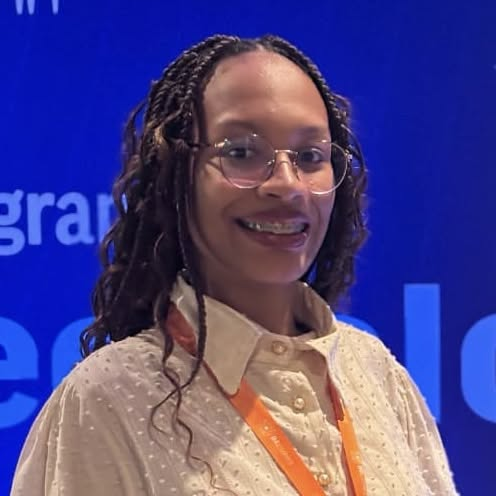
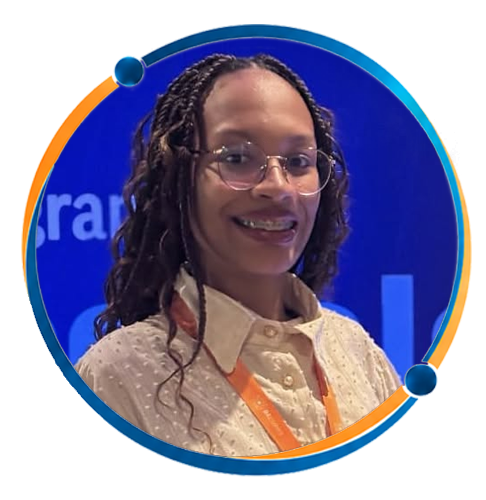
Usa PNGs dos apresentadores com moldura original sem recortes

diff --git a/programacao.html b/programacao.html
@@ -10,7 +10,7 @@
     <link rel="preconnect" href="https://fonts.googleapis.com" />
     <link rel="preconnect" href="https://fonts.gstatic.com" crossorigin />
     <link href="https://fonts.googleapis.com/css2?family=DM+Sans:wght@400;500;600;700&family=Syne:wght@600;700;800&display=swap" rel="stylesheet" />
-    <link rel="stylesheet" href="styles.css?v=20261028-15" />
+    <link rel="stylesheet" href="styles.css?v=20261028-16" />
   </head>
   <body class="program-page">
     <header class="site-header">
@@ -141,19 +141,19 @@
                 <div class="program-presentations">
                   <section class="program-presentation">
                     <h4>Avaliação comparativa da dose glandular média em mamografia digital 2D e tomossíntese mamária</h4>
-                    <div class="program-person"><span class="program-presenter-photo"><img class="presenter-caroline" src="assets/apresentadores/caroline-chagas.jpeg?v=20261028-original" alt="Caroline Chagas" width="46" height="46" loading="lazy" /></span><span><strong>Caroline Chagas</strong><small>Apresentador</small></span></div>
+                    <div class="program-person"><span class="program-presenter-photo"><img class="presenter-caroline" src="assets/apresentadores/caroline-chagas.png?v=20261028-moldura" alt="Caroline Chagas" width="50" height="50" loading="lazy" /></span><span><strong>Caroline Chagas</strong><small>Apresentador</small></span></div>
                   </section>
                   <section class="program-presentation">
                     <h4>Comparação da dose glandular média indicada por mamógrafo digital com a estimada pelo método de Dance</h4>
-                    <div class="program-person"><span class="program-presenter-photo"><img class="presenter-lizandra" src="assets/apresentadores/lizandra-oliveira.jpeg?v=20261028-original" alt="Lizandra Oliveira" width="46" height="46" loading="lazy" /></span><span><strong>Lizandra Oliveira</strong><small>Apresentador</small></span></div>
+                    <div class="program-person"><span class="program-presenter-photo"><img class="presenter-lizandra" src="assets/apresentadores/lizandra-oliveira.png?v=20261028-moldura" alt="Lizandra Oliveira" width="50" height="50" loading="lazy" /></span><span><strong>Lizandra Oliveira</strong><small>Apresentador</small></span></div>
                   </section>
                   <section class="program-presentation">
                     <h4>Impacto da geometria dos simuladores de PMMA na avaliação da razão contraste-ruído em mamografia digital</h4>
-                    <div class="program-person"><span class="program-presenter-photo"><img class="presenter-victoria" src="assets/apresentadores/victoria-do-carmo.jpeg?v=20261028-original" alt="Victória do Carmo" width="46" height="46" loading="lazy" /></span><span><strong>Victória do Carmo</strong><small>Apresentador</small></span></div>
+                    <div class="program-person"><span class="program-presenter-photo"><img class="presenter-victoria" src="assets/apresentadores/victoria-do-carmo.png?v=20261028-moldura" alt="Victória do Carmo" width="50" height="50" loading="lazy" /></span><span><strong>Victória do Carmo</strong><small>Apresentador</small></span></div>
                   </section>
                   <section class="program-presentation">
                     <h4>Aprendizado profundo para leitura automática do teste de constância em mamografia: avaliação prospectiva em rotina com fantomas ACR e CBR</h4>
-                    <div class="program-person"><span class="program-presenter-photo"><img src="assets/apresentadores/perfil-azul.svg" alt="Silhueta de perfil — foto de Diego Galeano não disponível" width="46" height="46" loading="lazy" /></span><span><strong>Diego Galeano</strong><small>Apresentador</small></span></div>
+                    <div class="program-person"><span class="program-presenter-photo"><img src="assets/apresentadores/perfil-azul.svg" alt="Silhueta de perfil — foto de Diego Galeano não disponível" width="50" height="50" loading="lazy" /></span><span><strong>Diego Galeano</strong><small>Apresentador</small></span></div>
                   </section>
                 </div>
               </article>
@@ -244,15 +244,15 @@
                 <div class="program-presentations">
                   <section class="program-presentation">
                     <h4>Avaliação da exposição à radiação de acompanhantes em tomografia computadorizada pediátrica: influência do posicionamento e do uso de avental plumbífero</h4>
-                    <div class="program-person"><span class="program-presenter-photo"><img class="presenter-juliana" src="assets/apresentadores/juliana-barros.jpeg?v=20261028-original" alt="Juliana Barros" width="46" height="46" loading="lazy" /></span><span><strong>Juliana Barros</strong><small>Apresentador</small></span></div>
+                    <div class="program-person"><span class="program-presenter-photo"><img class="presenter-juliana" src="assets/apresentadores/juliana-barros.png?v=20261028-moldura" alt="Juliana Barros" width="50" height="50" loading="lazy" /></span><span><strong>Juliana Barros</strong><small>Apresentador</small></span></div>
                   </section>
                   <section class="program-presentation">
                     <h4>Avaliação da concordância entre o CTDIvol indicado e medido em tomografia computadorizada</h4>
-                    <div class="program-person"><span class="program-presenter-photo"><img class="presenter-leticia" src="assets/apresentadores/leticia-teles.png?v=20261028-original" alt="Letícia Teles" width="46" height="46" loading="lazy" /></span><span><strong>Letícia Teles</strong><small>Apresentador</small></span></div>
+                    <div class="program-person"><span class="program-presenter-photo"><img class="presenter-leticia" src="assets/apresentadores/leticia-teles.png?v=20261028-moldura" alt="Letícia Teles" width="50" height="50" loading="lazy" /></span><span><strong>Letícia Teles</strong><small>Apresentador</small></span></div>
                   </section>
                   <section class="program-presentation">
                     <h4>Avaliação de microcristais de L-treonina por espectroscopia FTIR-ATR para dosimetria de radiação gama</h4>
-                    <div class="program-person"><span class="program-presenter-photo"><img class="presenter-isabel" src="assets/apresentadores/isabel-scoralick-valgas.jpeg?v=20261028-original" alt="Isabel Scoralick Valgas" width="46" height="46" loading="lazy" /></span><span><strong>Isabel Scoralick Valgas</strong><small>Apresentador</small></span></div>
+                    <div class="program-person"><span class="program-presenter-photo"><img class="presenter-isabel" src="assets/apresentadores/isabel-scoralick-valgas.png?v=20261028-moldura" alt="Isabel Scoralick Valgas" width="50" height="50" loading="lazy" /></span><span><strong>Isabel Scoralick Valgas</strong><small>Apresentador</small></span></div>
                   </section>
                 </div>
               </article>
@@ -290,15 +290,15 @@
                 <div class="program-presentations">
                   <section class="program-presentation">
                     <h4>Aplicação de L-alanina na dosimetria de raios gama na faixa de doses de radioterapia</h4>
-                    <div class="program-person"><span class="program-presenter-photo"><img class="presenter-emilly" src="assets/apresentadores/emilly-menezes.jpg?v=20261028-original" alt="Emilly Menezes" width="46" height="46" loading="lazy" /></span><span><strong>Emilly Menezes</strong><small>Apresentador</small></span></div>
+                    <div class="program-person"><span class="program-presenter-photo"><img class="presenter-emilly" src="assets/apresentadores/emilly-menezes.png?v=20261028-moldura" alt="Emilly Menezes" width="50" height="50" loading="lazy" /></span><span><strong>Emilly Menezes</strong><small>Apresentador</small></span></div>
                   </section>
                   <section class="program-presentation">
                     <h4>Impacto dosimétrico de deslocamentos sistemáticos de 5 mm e justificativa para a verificação por imagem a cada cinco dias em radioterapia</h4>
-                    <div class="program-person"><span class="program-presenter-photo"><img class="presenter-gabriel" src="assets/apresentadores/gabriel-vasconcelos.jpg?v=20261028-original" alt="Gabriel Vasconcelos" width="46" height="46" loading="lazy" /></span><span><strong>Gabriel Vasconcelos</strong><small>Apresentador</small></span></div>
+                    <div class="program-person"><span class="program-presenter-photo"><img class="presenter-gabriel" src="assets/apresentadores/gabriel-vasconcelos.png?v=20261028-moldura" alt="Gabriel Vasconcelos" width="50" height="50" loading="lazy" /></span><span><strong>Gabriel Vasconcelos</strong><small>Apresentador</small></span></div>
                   </section>
                   <section class="program-presentation">
                     <h4>Análise da exposição ocupacional à radiação retroespalhada e de fuga em procedimentos em centros de hemodinâmica</h4>
-                    <div class="program-person"><span class="program-presenter-photo"><img class="presenter-misia" src="assets/apresentadores/misia-cunha-flor.jpg?v=20261028-original" alt="Mísia Cunha Flor" width="46" height="46" loading="lazy" /></span><span><strong>Mísia Cunha Flor</strong><small>Apresentador</small></span></div>
+                    <div class="program-person"><span class="program-presenter-photo"><img class="presenter-misia" src="assets/apresentadores/misia-cunha-flor.png?v=20261028-moldura" alt="Mísia Cunha Flor" width="50" height="50" loading="lazy" /></span><span><strong>Mísia Cunha Flor</strong><small>Apresentador</small></span></div>
                   </section>
                 </div>
               </article>

diff --git a/styles.css b/styles.css
@@ -1476,14 +1476,9 @@ body.speaker-dialog-fallback-open::before { position: fixed; inset: 0; z-index: 
 .program-person strong { color: var(--blue); font-size: .9rem; }
 .program-presentations { display: grid; gap: 24px; }
 .program-presentation h4 { margin: 0 0 12px; color: var(--navy); font-size: 1rem; line-height: 1.5; }
-.program-person > .program-presenter-photo { display: block; position: relative; flex: none; box-sizing: border-box; width: 46px; height: 46px; overflow: hidden; border: 2px solid #8dd5ed; border-radius: 50%; background: #e7f1f3; }
-.program-presentation .program-presenter-photo img { display: block; position: static; width: 42px; height: 42px; max-width: none; border-radius: 0; object-fit: cover; image-rendering: auto; }
-.program-presentation .presenter-caroline { object-position: 50% 35%; }
-.program-presentation .presenter-lizandra { object-position: 35% 25%; }
-.program-presentation .presenter-victoria { object-position: 50% 35%; }
-.program-presentation .presenter-emilly { object-position: 50% 42%; }
-.program-presentation .presenter-gabriel { object-position: 50% 30%; }
-.program-presentation .presenter-misia { object-position: 50% 65%; }
+.program-person > .program-presenter-photo { display: block; flex: none; width: 50px; height: 50px; overflow: visible; border: 0; border-radius: 0; background: transparent; }
+.program-presentation .program-presenter-photo img { display: block; width: 50px; height: 50px; max-width: none; border: 0; border-radius: 0; background: transparent; object-fit: contain; object-position: center; }
+.program-presentation .program-presenter-photo img[src$="perfil-azul.svg"] { box-sizing: border-box; border: 2px solid #8dd5ed; border-radius: 50%; }
 .program-item-break .program-event { display: flex; align-items: center; gap: 14px; padding: 0; border: 0; background: transparent; }
 .program-item-break .program-event h3 { font-size: 1rem; }
 @media (max-width: 600px) {
